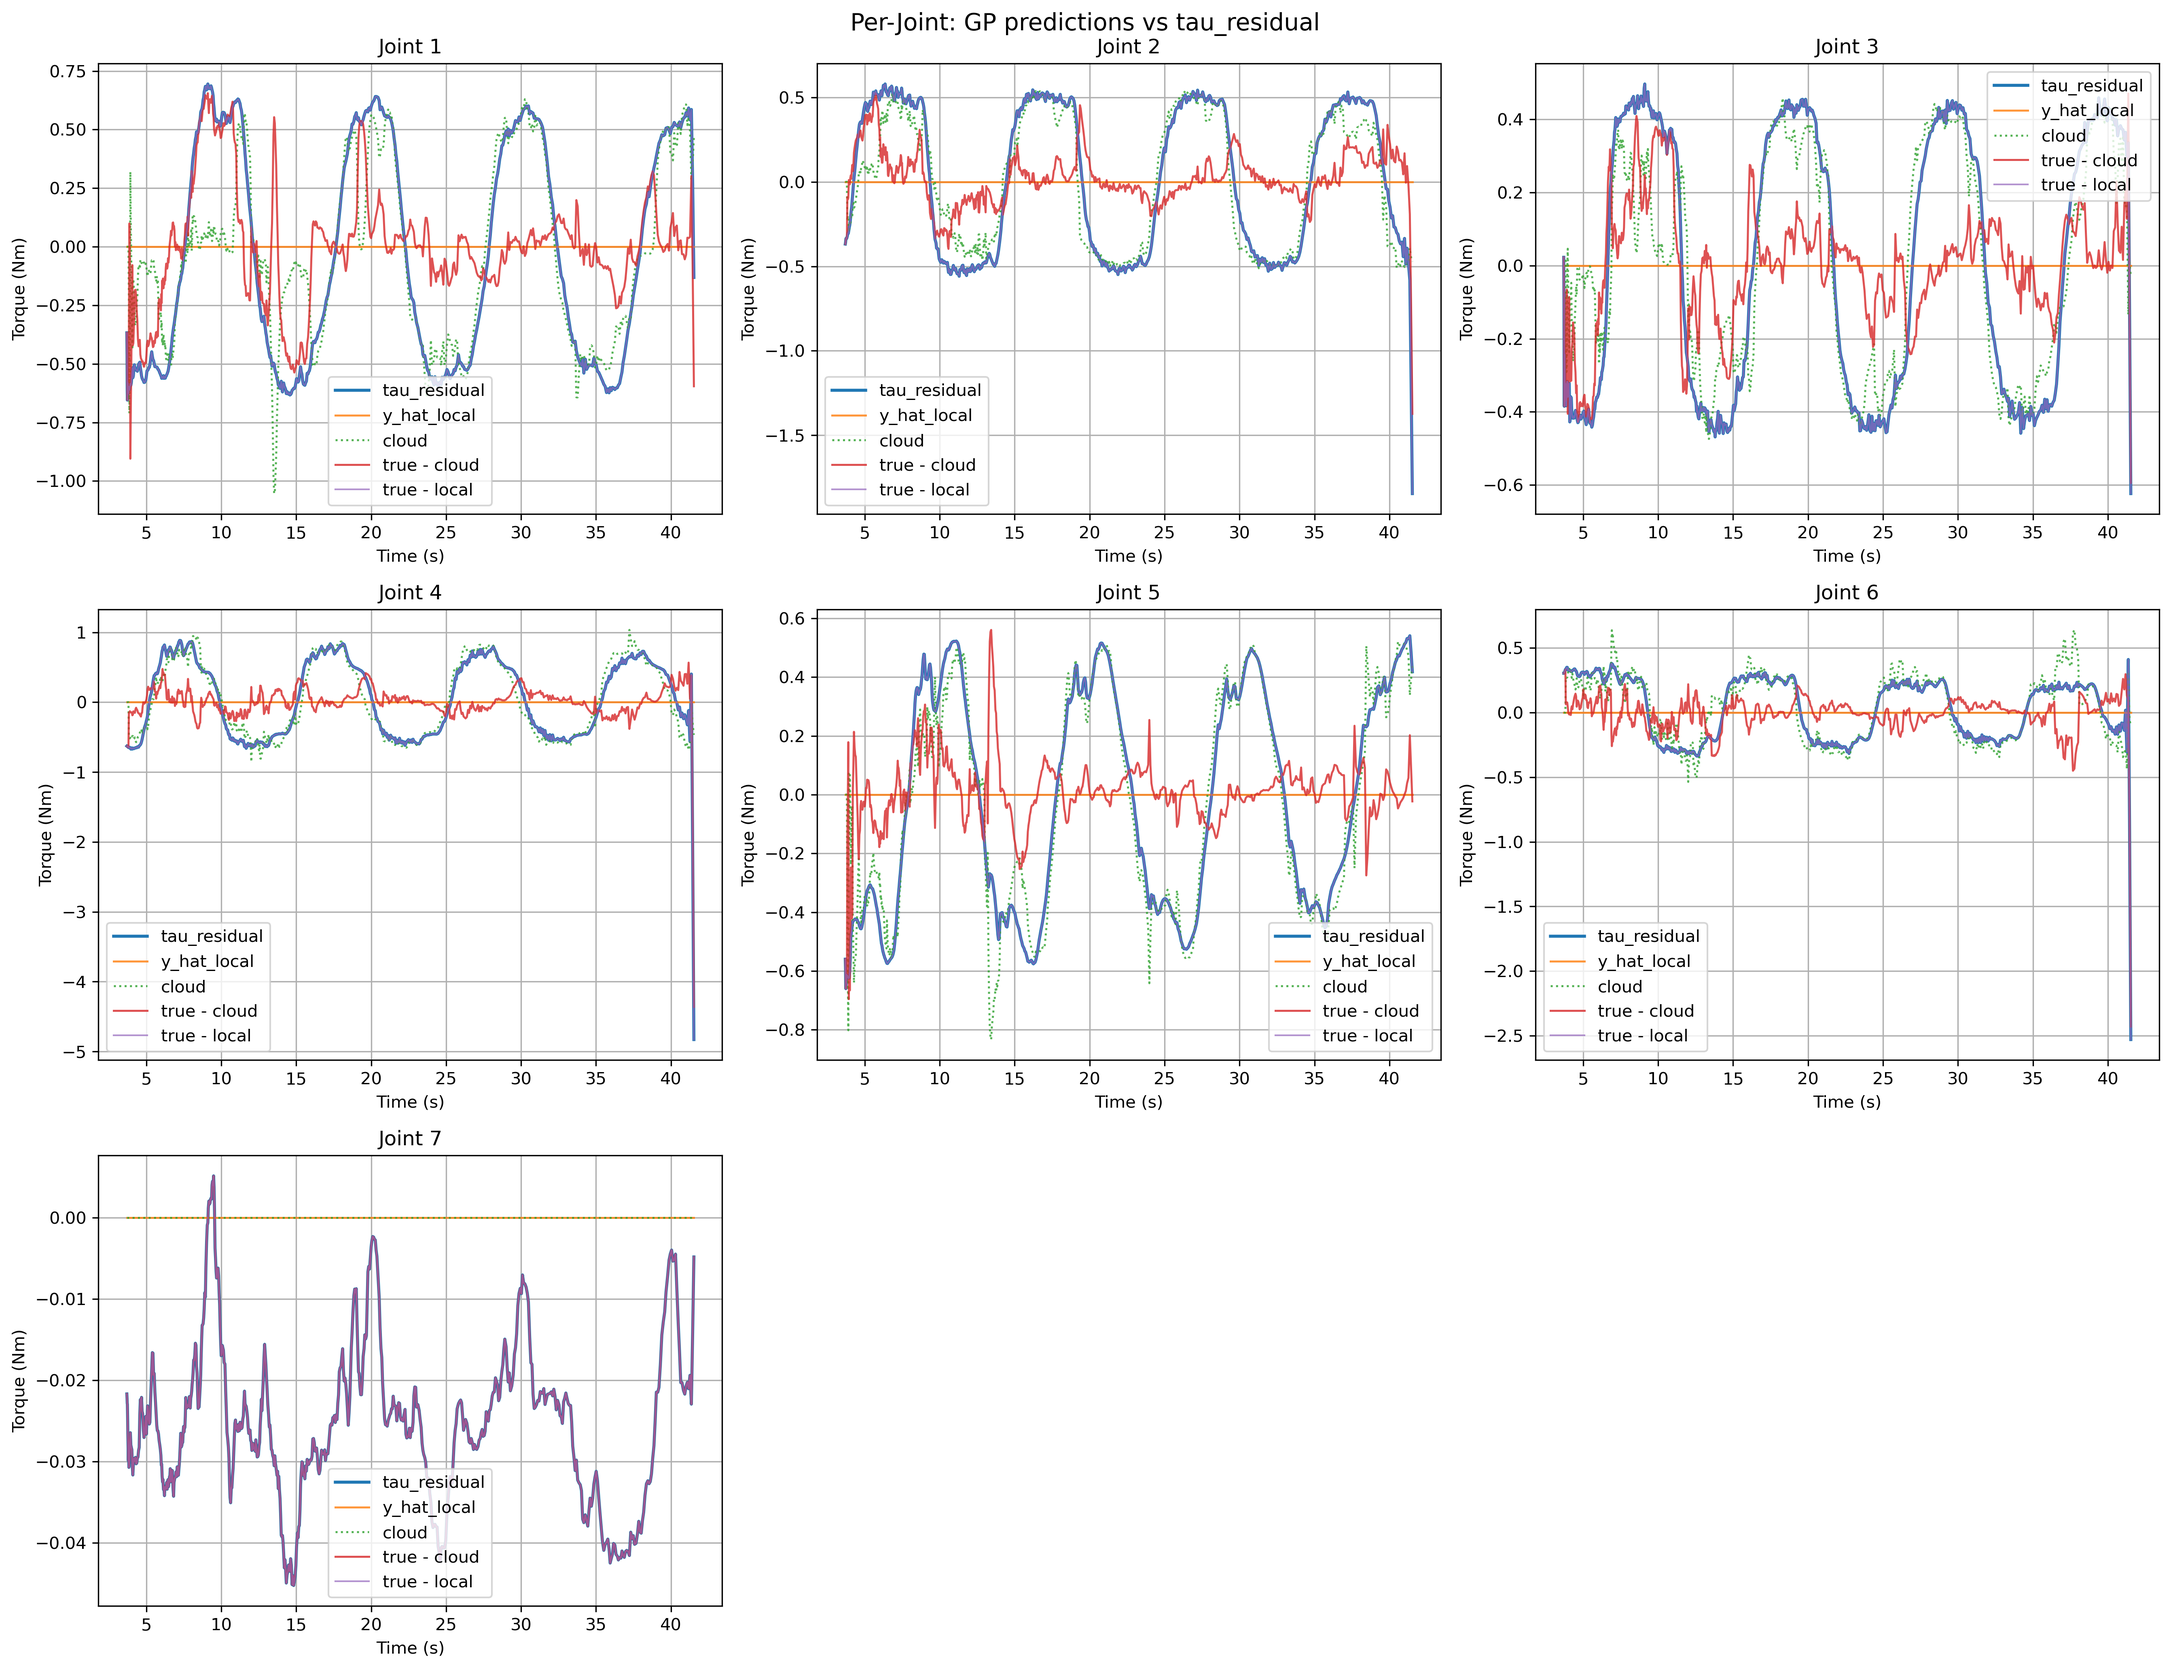
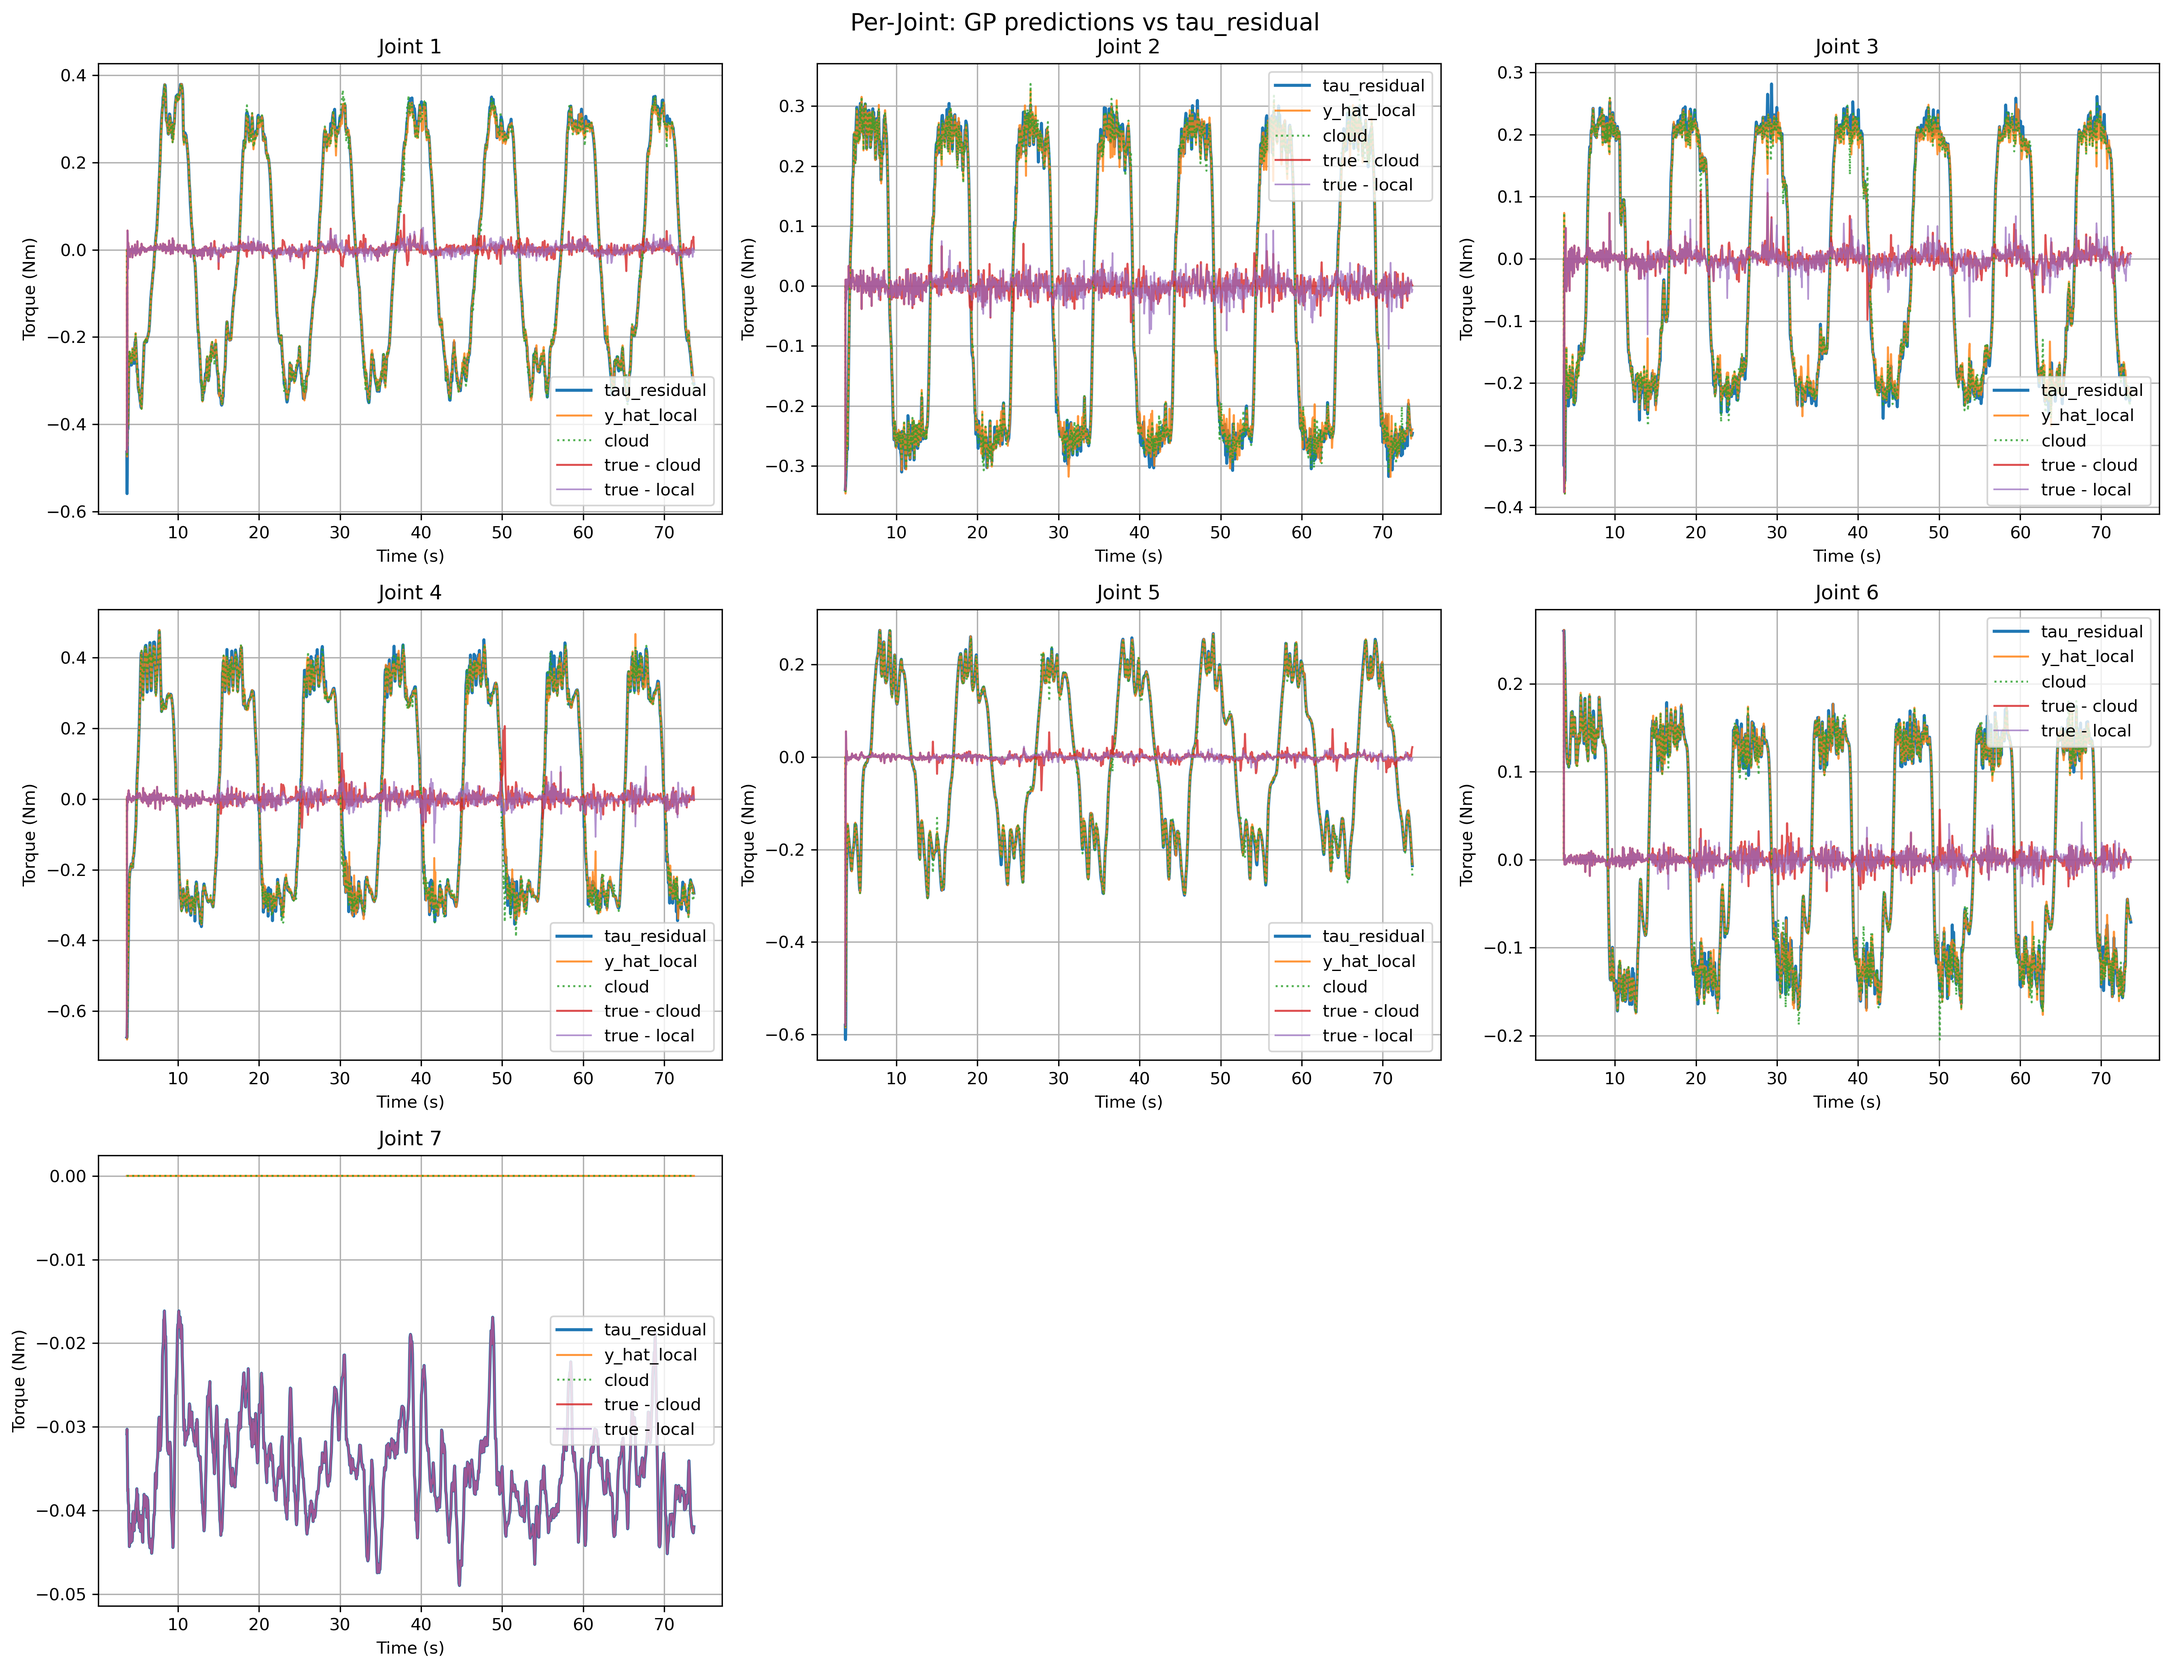
two models at local end

diff --git a/new_structure/py_controllers/py_controllers/cartesian_impedance.py b/new_structure/py_controllers/py_controllers/cartesian_impedance.py
@@ -536,20 +536,20 @@ class CartesianImpedanceController(Node):
                 self.gp_counter += 1
                 # if self.gp_counter % self.gp_stride == 0:
                 # 1) 本地 GP 立刻算一次（同步）
-                # self.y_hat_local = self._gp_predict_and_update(
-                #     self.q,
-                #     dq,
-                #     self.ddq_des_joint,
-                #     self.tau_residual_filtered,
-                #     self.gp_models_small
-                # )
-                # self.y_hat_cloud = self._gp_predict_and_update(
-                #     self.q,
-                #     dq,
-                #     self.ddq_des_joint,
-                #     self.tau_residual_filtered,
-                #     self.gp_models_big
-                # )
+                self.y_hat_local = self._gp_predict_and_update(
+                    self.q,
+                    dq,
+                    self.ddq_des_joint,
+                    self.tau_residual_filtered,
+                    self.gp_models_small
+                )
+                self.y_hat_cloud = self._gp_predict_and_update(
+                    self.q,
+                    dq,
+                    self.ddq_des_joint,
+                    self.tau_residual_filtered,
+                    self.gp_models_big
+                )
 
                 self.state_buffer.append({
                     "q": self.q.copy(),
@@ -584,23 +584,23 @@ class CartesianImpedanceController(Node):
                     dq_future_main = dq_ref + ddq_cmd * delay
                     ddq_future_main = ddq_cmd
 
-                    self.y_hat_cloud = self._gp_predict_and_update(
-                        q_future_main,
-                        dq_future_main,
-                        ddq_future_main,
-                        self.tau_residual_filtered,          # ✅ 更新用旧残差更一致
-                        self.gp_models_big,
-                        update = False
-                    )
-                    _ = self._gp_predict_and_update(
-                        q_old,
-                        dq_old,
-                        ddq_old,
-                        tau_res_old,          # ✅ 更新用旧残差更一致
-                        self.gp_models_big
-                    )
-                else:
-                    self.y_hat_cloud = np.zeros(7)
+                    # self.y_hat_cloud = self._gp_predict_and_update(
+                    #     q_future_main,
+                    #     dq_future_main,
+                    #     ddq_future_main,
+                    #     self.tau_residual_filtered,          # ✅ 更新用旧残差更一致
+                    #     self.gp_models_big,
+                    #     update = False
+                    # )
+                    # _ = self._gp_predict_and_update(
+                    #     q_old,
+                    #     dq_old,
+                    #     ddq_old,
+                    #     tau_res_old,          # ✅ 更新用旧残差更一致
+                    #     self.gp_models_big
+                    # )
+                # else:
+                #     self.y_hat_cloud = np.zeros(7)
                 
                 # self.y_hat_cloud = self._gp_predict_and_update(
                 #     self.q,
